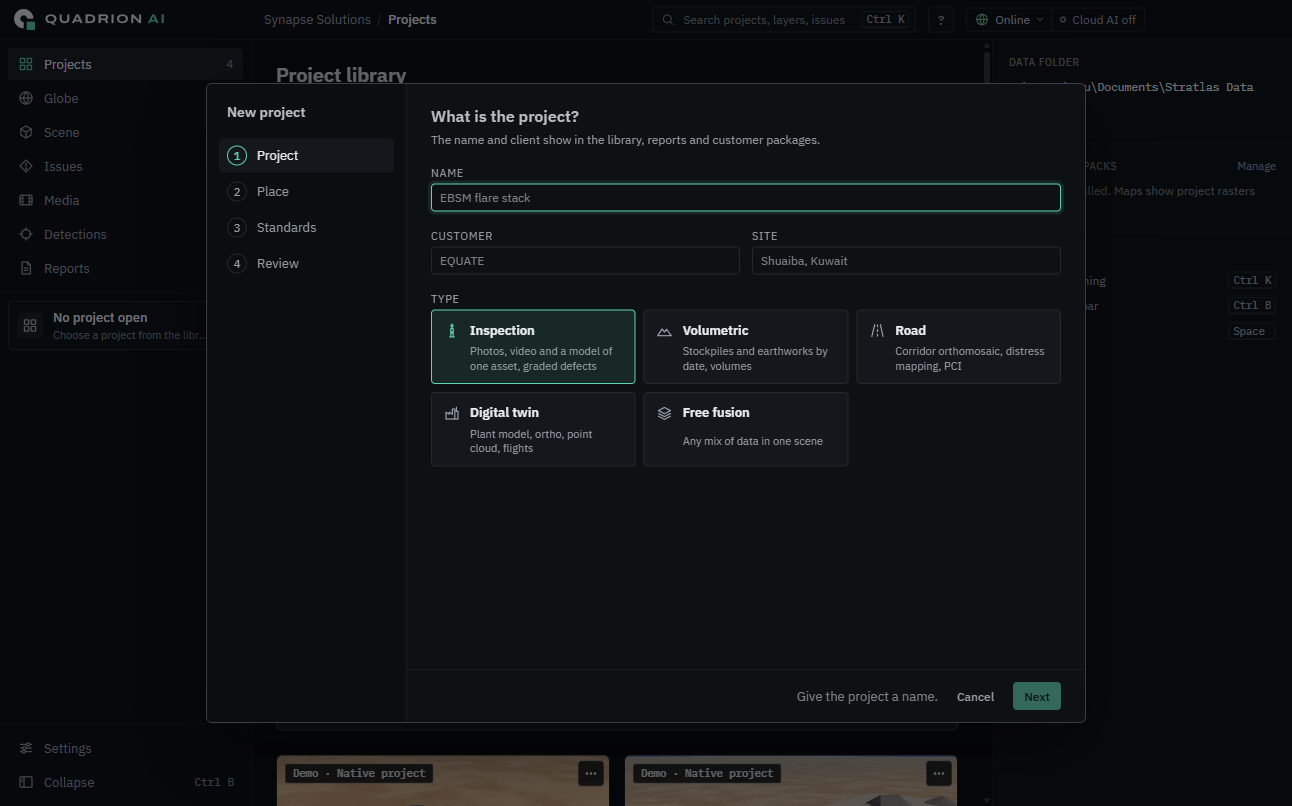
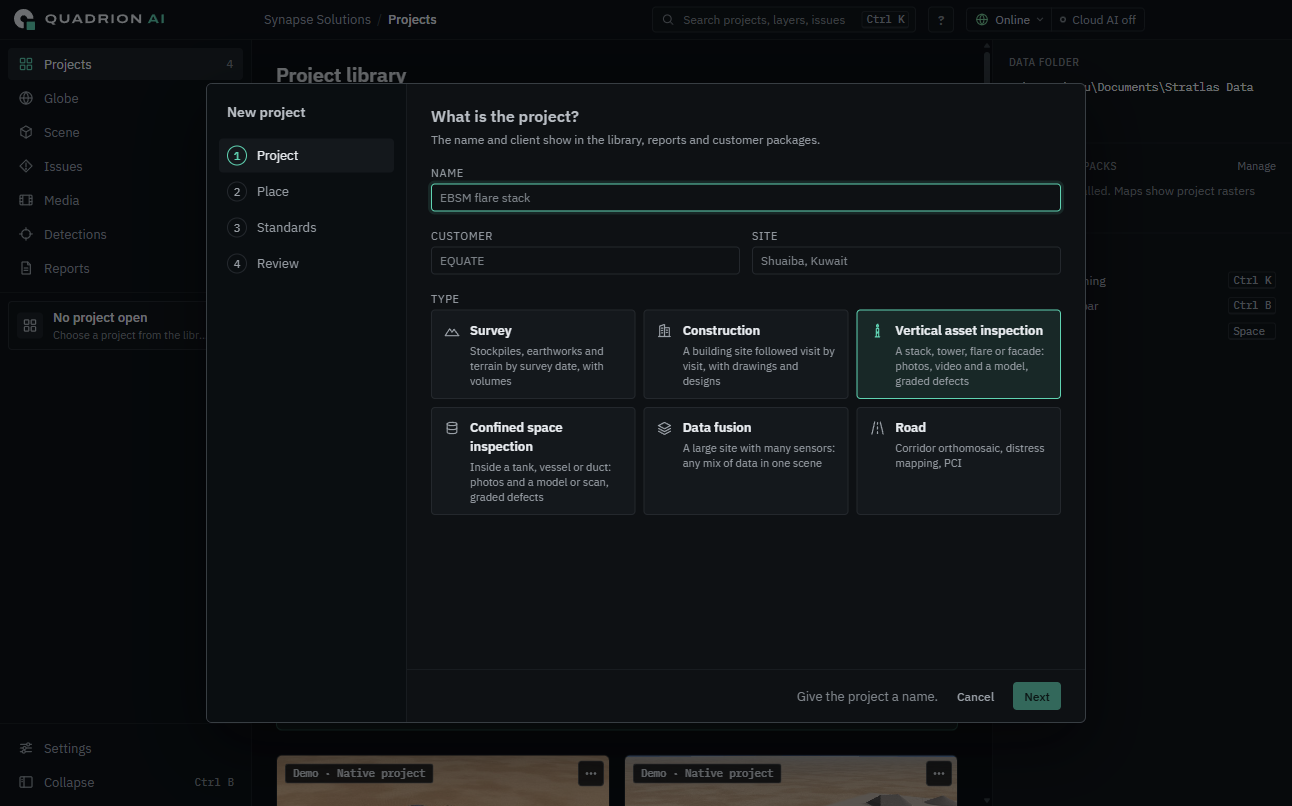
docs(guide): the new project screenshot shows the six type cards
Retaken by guide-shots.spec.ts, that one shot only. The design note lists
three more choices for the founder to review.

diff --git a/docs/plans/2026-10-11-project-types-design.md b/docs/plans/2026-10-11-project-types-design.md
@@ -100,6 +100,9 @@ A proposal to react to. None of it is built.
 8. The starter list wording, per type.
 9. The type on the Projects screen card is left out (needs a second contract change).
 10. The table "What each type could set up next".
+11. A road project opens in Road setup, so its starter list is only seen by someone who goes to the Scene while the project is still empty.
+12. The testing document and the samples spec now pick Confined space inspection for the tank sample (photos from inside a tank). It writes `inspection`, as before.
+13. The icons of the cards, taken from the existing set: pile, facade, flare, tank, layers, road.
 
 ## Tests
 
